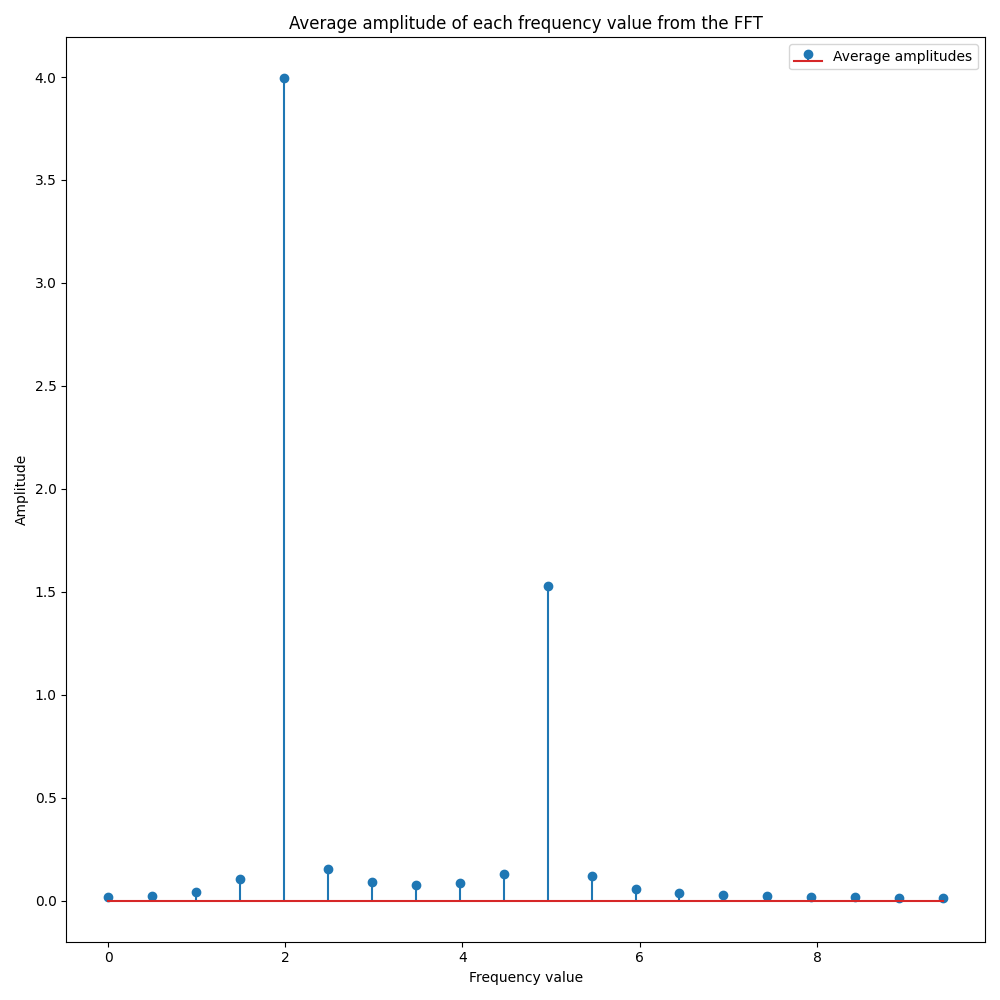
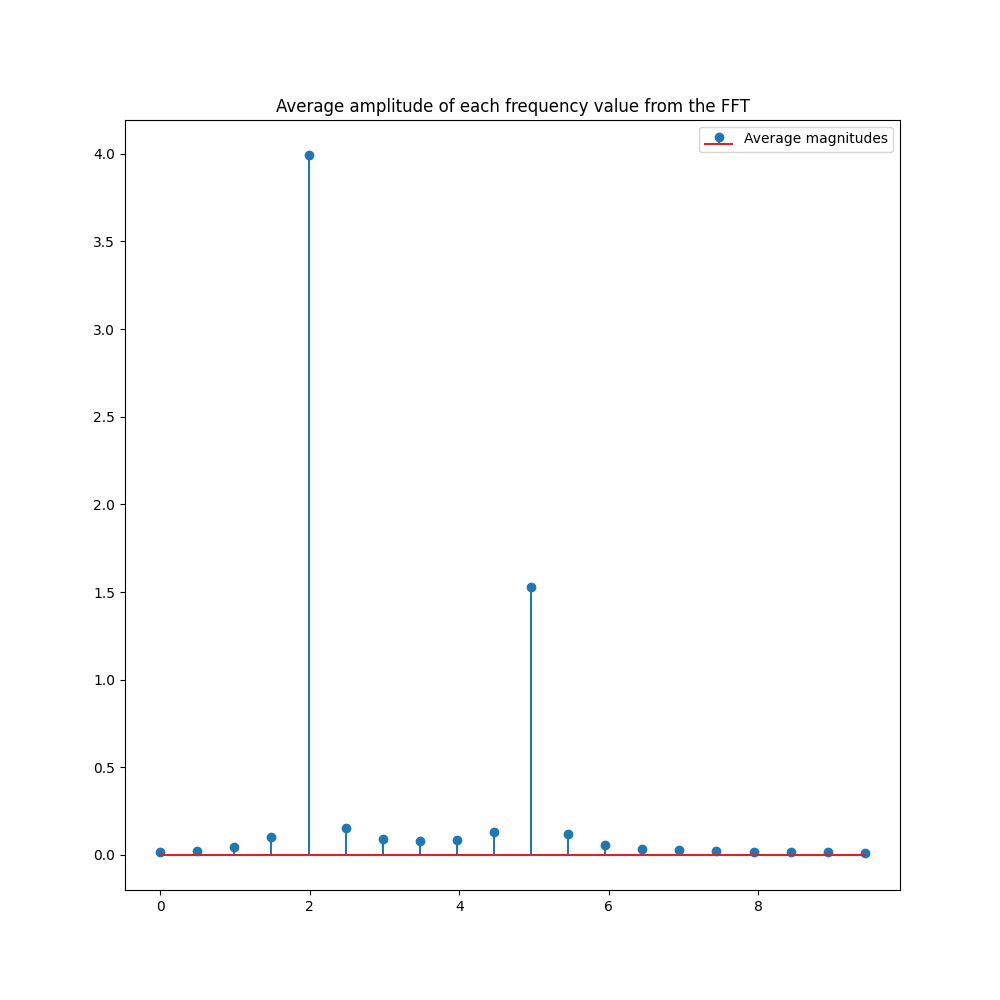
square wave

diff --git a/squarewave_intro.py b/squarewave_intro.py
@@ -1,0 +1,184 @@
+import numpy as np
+import matplotlib.pyplot as plt
+from scipy import signal
+
+
+def real_imag(fft_result):
+    # To actually get the magnitudes of our frequencies,
+    # we can do the following to separate the real and imaginary components:
+    real = np.real(fft_result)
+    imag = np.imag(fft_result)
+    # And finally, to get the amplitudes of components, we can apply the following:
+    cos_amp = np.abs(2*real)
+    sin_amp = np.abs(2*imag)
+
+    # The actual amplitudes of our values from above
+    amps = np.sqrt(np.square(cos_amp) + np.square(sin_amp))
+    return cos_amp,sin_amp
+
+"""Example FFT on clean function data"""
+
+# Numpy has a built-in fft package
+# We can use it here on a simple combination of sin/cos waves
+# With this equation, we have the following:
+#   ->frequency=2 with an average amplitude~=4.02
+#   ->frequency=5 with an average amplitude~=1.53
+f = lambda x: signal.square(x)
+
+# Let's sample N points over the interval [a,b]
+N = 128
+a = 0
+b = 4*np.pi - (1/N)
+xs = np.linspace(a, b, N)
+fxs = f(xs)
+
+# The sample rate is essentially the number of periods our function goes through
+sample_rate = (b-a)/(2*np.pi)
+
+# Just used to finely plot the function
+fine_xs = np.linspace(a, b, 10000)
+fine_fxs = f(fine_xs)
+
+# Plot everything
+plt.figure(figsize=(10, 10))
+plt.plot(fine_xs, fine_fxs, label='Full function')
+plt.scatter(xs, fxs, c='r', label='Discrete sample points')
+plt.legend()
+plt.xlabel('x')
+plt.ylabel('y')
+plt.title('Square Wave - Sampled with 128 points')
+#plt.savefig(f'{N}sample_fft_func.png')
+plt.show()
+
+# Apply the FFT to our function data
+fft_result = (1/N)*np.fft.fft(fxs)
+
+# The actual magnitudes of our values from above
+real,imag = real_imag(fft_result)
+
+# The frequencies of our matched up amplitudes
+freqs = np.linspace(0, N/sample_rate - 1, N)
+# Let's just look at the first 20 points
+fig,ax = plt.subplots(1,2,figsize=(10, 10))
+ax[0].stem(freqs[:20], real[:20],'g', markerfmt='go' ,label='real coefficients = An')
+ax[0].set_ylim(-.06,1.334)
+ax[1].stem(freqs[:20], imag[:20],'k', markerfmt='ko' ,label='imaginary coefficients = Bn')
+ax[0].legend()
+ax[1].legend()
+fig.suptitle('Absolute value of real and imaginary coefficients from the FFT')
+plt.tight_layout()
+#plt.savefig(f'{N}sample_fft_stems.png')
+plt.show()
+
+# As expected (with slight errors due to sample size), we get the correct peaks at
+# frequencies 2 and 5, with amplitudes ~4.02 and ~1.53 respectively.
+
+"""Example FFT on noisy function data"""
+
+# Additionally, we can add noise to our function sample points to show
+# that the FFT still functions, while doing a good job of noise reduction.
+# Let's randomly offset each of our samples across the normal distribution:
+offsets = np.random.normal(size=fxs.size)
+fxs_offset = fxs + offsets
+
+# The code below this is nearly identical to that explained above
+
+# Plot everything
+plt.figure(figsize=(10, 10))
+plt.plot(fine_xs, fine_fxs, label='Full function')
+plt.scatter(xs, fxs_offset, c='r', label='Discrete sample points')
+plt.legend()
+plt.xlabel('x')
+plt.ylabel('y')
+plt.title('Square Wave - Sampled with 128 noisy points')
+#plt.savefig(f'{N}sample_noisy_fft_func.png')
+plt.show()
+
+# Apply the FFT to our function data
+fft_result_offset = (1/N)*np.fft.fft(fxs_offset)
+
+# The actual magnitudes of our values from above
+off_real,off_imag = real_imag(fft_result_offset)
+
+# The frequencies of our matched up amplitudes
+freqs = np.linspace(0, N/sample_rate - 1, N)
+# Let's just look at the first 20 points
+fig,bx = plt.subplots(1,2,figsize=(10, 10))
+bx[0].stem(freqs[:20], off_real[:20],'g', markerfmt='go' ,label='real coefficients = An')
+bx[0].set_ylim(-.06,1.334)
+bx[1].stem(freqs[:20], off_imag[:20],'k', markerfmt='ko' ,label='imaginary coefficients = Bn')
+bx[0].legend()
+bx[1].legend()
+fig.suptitle('Absolute value of real and imaginary coefficients from the FFT')
+plt.tight_layout()
+#plt.savefig(f'{N}sample_fft_stems.png')
+plt.show()
+
+# As expected (with slight errors due to sample size), we get the correct peaks at
+# frequencies 2 and 5, with amplitudes ~4.02 and ~1.53 respectively.
+
+# This result is almost identical to our previous result without noise.
+# This highlights another useful task that Fourier Transforms accomplish,
+# filtering noise in data.
+
+"""Taking the inverse of our original transformed function data"""
+# Lastly, we can take the inverse of our fft data from the previous noisy example
+# to see how close to our original plot we are:
+s = N*np.fft.ifft(fft_result)
+
+plt.figure(figsize=(10, 10))
+plt.plot(fine_xs, fine_fxs, label='Full function')
+plt.scatter(xs, s.real, c='r', label='Discrete inversed points')
+plt.legend()
+plt.xlabel('x')
+plt.ylabel('y')
+plt.title('Square Wave - Inverse FFT')
+#plt.savefig(f'{N}sample_inverse_fft_func.png')
+plt.show()
+
+# Not surprisingly, the inverse gives us back our signal almost exactly!
+
+"""Working with non-power of 2 sample size"""
+
+# As described before, FFT can only work with data that has sample size of
+# 2^n (n is an integer). To work around this with sample sizes that aren't
+# powers of 2, FFT will pad the data with zeros to get to the nearest
+# power of 2 before transforming.
+
+# Let's try this on the function we've been working with:
+# With this equation, we have the following:
+#   ->frequency=2 with an average amplitude~=4.02
+#   ->frequency=5 with an average amplitude~=1.53
+f = lambda x: signal.square(x)
+
+a = 0
+b = 4*np.pi
+# The sample rate is essentially the number of periods our function goes through
+sample_rate = (b-a)/(2*np.pi)
+
+# Let's sample 96 points over the interval [a,b]
+N = 96
+xs = np.linspace(a, b, N)
+fxs = f(xs)
+
+# Apply the FFT to our function data
+# Inside this function, it will pad up to make the input size 128
+# Although this isn't how Numpy would usually handle this,
+# this forces a padding up to 2^n.
+padded_N = 128
+padded_fft_result = (1/N)*np.fft.fft(fxs, n=padded_N)
+
+padded_freqs = np.linspace(0, N/sample_rate - 1, padded_N)
+
+padded_real,padded_imag = real_imag(padded_fft_result)
+
+fig,ax = plt.subplots(1,2,figsize=(10, 10))
+ax[0].stem(freqs[:20], padded_real[:20],'g', markerfmt='go' ,label='real coefficients = An')
+ax[0].set_ylim(-.06,1.334)
+ax[1].stem(freqs[:20], padded_imag[:20],'k', markerfmt='ko' ,label='imaginary coefficients = Bn')
+ax[0].legend()
+ax[1].legend()
+fig.suptitle('Absolute value of real and imaginary coefficients from the FFT')
+plt.tight_layout()
+#plt.savefig(f'{N}sample_fft_stems.png')
+plt.show()
